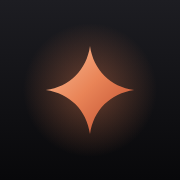
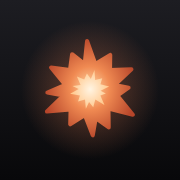
Boom 4.4: l'app si chiama Boom, con lo scoppio come icona (#8)
- Nome: titolo, schermata Home (manifest e iPhone), benvenuto, Impostazioni,
  avvisi di sistema, notifiche, calendario esportato. Regia resta il nome
  della chat principale; repo, indirizzo e id del manifest non cambiano
  (cambiare l'id farebbe un'app nuova da reinstallare).
- Icona: uno scoppio da fumetto nei colori dell'app (test/icone.js, e
  #i-boom nello sprite per il logo del benvenuto).
- Collaudo: il nome e il logo; «oggi: N turni» conta i turni di oggi
  davvero (dopo mezzanotte quelli di un'ora fa sono di ieri).

Claude-Session: https://claude.ai/code/session_01GuofdUgD61BMWYKqHFDryZ

Changed region(s): [[0.25, 0.1944, 0.75, 0.7778]]

diff --git a/index.html b/index.html
@@ -3,7 +3,7 @@
 <head>
 <meta charset="utf-8">
 <meta name="viewport" content="width=device-width,initial-scale=1,viewport-fit=cover,interactive-widget=resizes-content">
-<title>Regia</title>
+<title>Boom</title>
 <link rel="manifest" href="manifest.json">
 <link rel="icon" href="icon-192.png">
 <link rel="apple-touch-icon" href="apple-touch-icon.png">
@@ -11,11 +11,11 @@
 <meta name="theme-color" content="#09090b" media="(prefers-color-scheme: dark)">
 <meta name="apple-mobile-web-app-capable" content="yes">
 <meta name="mobile-web-app-capable" content="yes">
-<meta name="apple-mobile-web-app-title" content="Regia">
+<meta name="apple-mobile-web-app-title" content="Boom">
 <meta name="apple-mobile-web-app-status-bar-style" content="black-translucent">
 <style>
 /* ==========================================================
-   Regia — foglio di stile. Nessuna dipendenza esterna:
+   Boom — foglio di stile. Nessuna dipendenza esterna:
    solo variabili CSS e i font di sistema.
    L'aspetto è quello dell'app di Claude, ma più asciutto: si
    apre sulla chat, in alto una riga sola: il menu (o, nelle altre
@@ -867,6 +867,8 @@ textarea.f{resize:vertical;min-height:84px;line-height:1.5}
     <linearGradient id="gSpark" x1="0" y1="0" x2="1" y2="1">
       <stop offset="0" stop-color="#f7b48b"/><stop offset=".5" stop-color="#e47c50"/><stop offset="1" stop-color="#b6452a"/>
     </linearGradient>
+    <!-- lo scoppio di «Boom», il logo dell'app (lo stesso delle icone: test/icone.js) -->
+    <symbol id="i-boom" viewBox="0 0 24 24"><path d="M11.35 1.12L13.18 6.22L16.50 4.21L16.45 7.55L21.21 7.39L17.49 10.88L20.58 11.48L18.07 13.24L21.53 17.50L16.10 16.10L16.16 20.32L13.28 18.27L12.61 22.08L10.86 17.58L7.60 19.62L7.69 16.31L2.43 16.78L6.12 13.20L2.52 12.57L6.51 10.88L3.34 7.00L7.55 7.55L8.02 4.04L10.82 6.22Z"/></symbol>
     <symbol id="i-cal" viewBox="0 0 24 24"><rect x="3.5" y="5" width="17" height="15.5" rx="3"/><path d="M3.5 10h17M8 3v4M16 3v4"/></symbol>
     <symbol id="i-refresh" viewBox="0 0 24 24"><path d="M20 12a8 8 0 1 1-2.6-5.9"/><path d="M20 4v5h-5"/></symbol>
     <symbol id="i-sliders" viewBox="0 0 24 24"><path d="M4 7h9M17 7h3M4 17h3M11 17h9"/><circle cx="15" cy="7" r="2.2"/><circle cx="9" cy="17" r="2.2"/></symbol>
@@ -995,8 +997,8 @@ textarea.f{resize:vertical;min-height:84px;line-height:1.5}
 <!-- il primo avvio: il codice di accesso, e basta -->
 <div id="benvenuto" class="hide">
   <div class="in">
-    <svg class="logo" aria-hidden="true"><use href="#i-spark"/></svg>
-    <h1>Benvenuto in Regia</h1>
+    <svg class="logo" aria-hidden="true"><use href="#i-boom"/></svg>
+    <h1>Benvenuto in Boom</h1>
     <p>Il tuo Claude, con l'agenda e gli agenti che lavorano per te. Per cominciare, incolla il codice di accesso.</p>
     <input class="f" id="bTok" type="password" placeholder="Codice di accesso" autocapitalize="off" autocorrect="off" autocomplete="off">
     <div class="btnrow"><button class="btn primary" id="bEntra">Entra</button></div>
@@ -1022,8 +1024,8 @@ textarea.f{resize:vertical;min-height:84px;line-height:1.5}
 'use strict';
 
 /* ============================================================
-   Regia — l'app di Claude, ma fatta per Andrea. Si apre su Regia,
-   la chat principale, che risponde subito e smista il lavoro lungo
+   Boom — l'app di Claude, ma fatta per Andrea (il codice è nel repo
+   «regia», il nome di prima). Si apre su Regia, la chat principale, che risponde subito e smista il lavoro lungo
    agli agenti (chat temporanee) o alle chat fisse.
    I dati stanno nel repo privato (regia-dati): ogni messaggio è un
    file, ogni modifica un commit. Sul repo gira un workflow che fa
@@ -1031,7 +1033,7 @@ textarea.f{resize:vertical;min-height:84px;line-height:1.5}
    e mostra (e il telefono riceve le notifiche).
    ============================================================ */
 
-var VERSIONE = '4.3';
+var VERSIONE = '4.4';
 var DEFAULTS = { owner:'andrisis2', repo:'regia-dati', branch:'main', token:'' };
 var WORKFLOW = 'claude.yml';
 var AGENDA = 'agenda/agenda.json';
@@ -3406,7 +3408,7 @@ var SUGGERIMENTI = {
   posta: ['Cosa c\'è di importante?', 'A quali mail devo rispondere?', 'Preparami la bozza di risposta a '],
   lavoro: ['Cerca offerte nuove per me', 'A che punto sono le candidature?', 'Preparami al colloquio con '],
   fede: ['Il Vangelo di oggi, spiegato semplice', 'Una preghiera per stasera', 'Da dove posso ricominciare?'],
-  app: ['A che punto sono le mie app?', 'Nell\'app Regia vorrei ', 'C\'è un problema in '],
+  app: ['A che punto sono le mie app?', 'Nell\'app Boom vorrei ', 'C\'è un problema in '],
   _: ['A che punto siamo?', 'Qual è il prossimo passo?', 'Riassumimi la memoria']
 };
 
@@ -3597,7 +3599,7 @@ function disegnaChat(scrollaGiu){
     if(st.tipo === 'lavoro' || st.tipo === 'coda' || st.tipo === 'attesa') box.appendChild(pensiero(st));
     if(st.tipo === 'runFallito'){
       var f = document.createElement('div'); f.className = 'msg sistema';
-      f.innerHTML = '<div class="bubble"><div class="who"><span class="mark"><svg class="i"><use href="#i-alert"/></svg></span>Regia</div>' +
+      f.innerHTML = '<div class="bubble"><div class="who"><span class="mark"><svg class="i"><use href="#i-alert"/></svg></span>Boom</div>' +
         'Il turno di Claude si è interrotto prima di rispondere.</div>' +
         '<div class="meta" style="justify-content:flex-start"><button class="_rip">Riprova</button></div>';
       box.appendChild(f);
@@ -3672,7 +3674,7 @@ function bolla(c, autore, testo, quando, o){
   if(autore === 'claude' && (mattino || rout || prom || fine)){
     who = '<div class="who"><span class="mark"><svg class="i"><use href="#i-' + (mattino ? 'sun' : prom ? 'clock' : fine ? 'check' : 'repeat') + '"/></svg></span>' +
       (mattino ? 'Il piano di oggi' : prom ? 'Promemoria' : fine ? 'Lavoro finito' : 'Routine' + (nomeR ? ' · ' + escapeHtml(nomeR) : '')) + '</div>';
-  } else if(autore === 'sistema') who = '<div class="who"><span class="mark"><svg class="i"><use href="#i-alert"/></svg></span>Regia</div>';
+  } else if(autore === 'sistema') who = '<div class="who"><span class="mark"><svg class="i"><use href="#i-alert"/></svg></span>Boom</div>';
   // il compito affidato da Regia: come un messaggio inoltrato
   if(autore === 'andrea' && campi.da === PRINCIPALE) who = '<div class="inoltro"><svg class="i"><use href="#i-spark"/></svg>Affidato da Regia</div>';
   var rifai = autore === 'andrea' && NOME_MSG.test(String(campi.rifai || ''));
@@ -4576,7 +4578,7 @@ function esportaIcs(){
   function esc(s){ return String(s).replace(/\\/g, '\\\\').replace(/\n/g, '\\n').replace(/([,;])/g, '\\$1'); }
   function piega(l){ var out = []; while(l.length > 74){ out.push(l.slice(0, 74)); l = ' ' + l.slice(74); } out.push(l); return out.join('\r\n'); }
   var tz = fuso(), stamp = new Date().toISOString().replace(/[-:]/g, '').replace(/\.\d+/, '');
-  var r = ['BEGIN:VCALENDAR', 'VERSION:2.0', 'PRODID:-//Regia//Agenda//IT', 'CALSCALE:GREGORIAN', 'X-WR-CALNAME:Regia'];
+  var r = ['BEGIN:VCALENDAR', 'VERSION:2.0', 'PRODID:-//Boom//Agenda//IT', 'CALSCALE:GREGORIAN', 'X-WR-CALNAME:Boom'];
   if(tz === 'Europe/Rome'){
     r.push('BEGIN:VTIMEZONE', 'TZID:Europe/Rome',
       'BEGIN:DAYLIGHT', 'TZOFFSETFROM:+0100', 'TZOFFSETTO:+0200', 'TZNAME:CEST', 'DTSTART:19700329T020000', 'RRULE:FREQ=YEARLY;BYMONTH=3;BYDAY=-1SU', 'END:DAYLIGHT',
@@ -4779,7 +4781,7 @@ function apriImpostazioni(){
   var notiQui = !!(mio && iscrizioni && (iscrizioni.iscrizioni || []).some(function(x){ return x && x.endpoint === mio.endpoint; }));
   var fisse = chatFisse();
   pg.body.innerHTML =
-    '<div class="profilo"><span class="av">' + escapeHtml((pref.nome || 'A').charAt(0).toUpperCase()) + '</span><div class="ri" style="flex:1;min-width:0"><b id="_nm"></b><small>Regia ' + VERSIONE + ' · il tuo Claude</small></div>' +
+    '<div class="profilo"><span class="av">' + escapeHtml((pref.nome || 'A').charAt(0).toUpperCase()) + '</span><div class="ri" style="flex:1;min-width:0"><b id="_nm"></b><small>Boom ' + VERSIONE + ' · il tuo Claude</small></div>' +
       '<button class="pill" id="_nome">Cambia</button></div>' +
     '<div class="sec-h">Claude</div><div class="menu">' +
       '<button id="_mr"><svg class="i"><use href="#i-spark"/></svg><span class="ri">Modello di Regia<small class="sotto">La chat principale: veloce</small></span><small>' + escapeHtml(descriviScelta(sceltaDiPartenza(PRINCIPALE), true)) + '</small></button>' +
@@ -4803,7 +4805,7 @@ function apriImpostazioni(){
     '<div class="sec-h">Connettori</div><div class="menu">' +
       '<button id="_c_posta"><svg class="i"><use href="#i-mail"/></svg><span class="ri">Gmail<small class="sotto">Nella chat Posta: legge e prepara bozze</small></span><small>come si collega</small></button>' +
       '<button id="_c_cal"><svg class="i"><use href="#i-cal"/></svg><span class="ri">Google Calendar<small class="sotto">I tuoi impegni, in sola lettura</small></span><small>' + (google ? 'collegato' : 'da collegare') + '</small></button>' +
-      '<button id="_c_gh"><svg class="i"><use href="#i-code"/></svg><span class="ri">Le tue app<small class="sotto">Russo, Articoli, Regia: modifiche e pubblicazione</small></span><small>come si collega</small></button>' +
+      '<button id="_c_gh"><svg class="i"><use href="#i-code"/></svg><span class="ri">Le tue app<small class="sotto">Russo, Articoli, Boom: modifiche e pubblicazione</small></span><small>come si collega</small></button>' +
       '<div class="riga"><svg class="i"><use href="#i-globe"/></svg><span class="ri">Ricerca sul web<small class="sotto">Sempre accesa</small></span></div>' +
       '<button id="_c_mcp"><svg class="i"><use href="#i-plug"/></svg><span class="ri">Altri connettori<small class="sotto">Drive e gli altri dell\'app di Claude</small></span></button>' +
     '</div>' +
@@ -4967,7 +4969,7 @@ function salvaIscrizioni(cambia, cosa, tentativo){
 function dispositivo(){ var u = navigator.userAgent; return /iphone/i.test(u) ? 'iPhone' : /ipad/i.test(u) ? 'iPad' : /android/i.test(u) ? 'Android' : 'computer'; }
 function attivaNotifiche(){
   if(!pushPossibile()){ toast(sulIphoneNonInstallata() ? 'Su iPhone le notifiche arrivano all\'app installata: Condividi → Aggiungi alla schermata Home, poi riaprila da lì.' : 'Questo browser non riceve notifiche.', 7000); return Promise.resolve(false); }
-  if(sulIphoneNonInstallata()){ toast('Prima aggiungi Regia alla schermata Home (Condividi → Aggiungi alla schermata Home), poi riaprila da lì.', 7000); return Promise.resolve(false); }
+  if(sulIphoneNonInstallata()){ toast('Prima aggiungi Boom alla schermata Home (Condividi → Aggiungi alla schermata Home), poi riaprila da lì.', 7000); return Promise.resolve(false); }
   var t = null, chiavi;
   return Notification.requestPermission().then(function(p){
     if(p !== 'granted') throw new Error('Senza il permesso del telefono non posso mandarti notifiche (si dà dalle impostazioni del telefono).');
@@ -5028,7 +5030,7 @@ function spiegaConnettore(quale){
   var html = {
     posta: '<h2>Gmail</h2><p class="help">Nella chat <b>Posta</b> Claude legge le tue mail, ti dice cosa conta e prepara le bozze di risposta. Non manda mai niente da solo.</p>' +
       '<ol class="passi"><li>Accendi la verifica in due passaggi: <a href="https://myaccount.google.com/signinoptions/twosv" target="_blank" rel="noopener">myaccount.google.com</a></li>' +
-      '<li>Crea una <b>password per le app</b> (nome «Regia»): <a href="https://myaccount.google.com/apppasswords" target="_blank" rel="noopener">password per le app</a></li>' +
+      '<li>Crea una <b>password per le app</b> (nome «Boom»): <a href="https://myaccount.google.com/apppasswords" target="_blank" rel="noopener">password per le app</a></li>' +
       '<li>Salvale tra i ' + segreti + ': <code>POSTA_UTENTE</code> = il tuo indirizzo Gmail, <code>POSTA_PASSWORD</code> = le 16 lettere.</li></ol>' +
       '<p class="help">La posta lavora a parte, senza web: una mail scritta per ingannare Claude non può fargli mandare niente.</p>',
     repo: '<h2>Le tue app</h2><p class="help">Così le chat <b>Russo</b>, <b>Articoli</b> e <b>Le mie app</b> (e gli agenti) possono modificare le tue app e pubblicarle.</p>' +
@@ -5036,7 +5038,7 @@ function spiegaConnettore(quale){
       '<li><i>Only select repositories</i>: le tue app (russo, prep, articoli-, regia…)</li>' +
       '<li><i>Permissions</i>: <b>Contents</b> e <b>Pull requests</b>, Read and write</li>' +
       '<li>Salvalo tra i ' + segreti + ' come <code>REGIA_GH_TOKEN</code>.</li></ol>',
-    mcp: '<h2>Altri connettori</h2><p class="help">I connettori dell\'app di Claude (Drive, Gmail, Calendar…) non arrivano qui: Claude lavora per Regia con una chiave che vale solo per parlare con lui. Per questo Regia ha i suoi: <b>Gmail</b> (nella Posta), <b>Google Calendar</b>, <b>le tue app</b> e la <b>ricerca sul web</b>.</p>' +
+    mcp: '<h2>Altri connettori</h2><p class="help">I connettori dell\'app di Claude (Drive, Gmail, Calendar…) non arrivano qui: Claude lavora per Boom con una chiave che vale solo per parlare con lui. Per questo Boom ha i suoi: <b>Gmail</b> (nella Posta), <b>Google Calendar</b>, <b>le tue app</b> e la <b>ricerca sul web</b>.</p>' +
       '<p class="help">Altri servizi si collegano come server MCP, nel file <code>.regia/connettori.json</code> dei tuoi dati (lo può preparare Claude dalla chat Le mie app); una chiave va nel segreto <code>CONNETTORI_TOKEN</code>.</p>'
   }[quale];
   var s = sheet(html + '<div class="btnrow"><button class="btn primary" id="_ok">Ok</button></div>');
@@ -5052,7 +5054,7 @@ function statoGoogle(){
       (dataDa(google.aggiornato) ? ', aggiornati ' + escapeHtml(quandoMsg(dataDa(google.aggiornato))) : '') + '. Si aggiornano a ogni turno di Claude.</p>' +
       '<p class="help">Li vedi nel calendario col segno <span class="tag google">Google</span>, e Claude ne tiene conto quando organizza, nel briefing e nei promemoria. ' +
       'Si cambiano da Google Calendar; quelli di Regia li puoi copiare là dalla scheda di ogni impegno.</p>' :
-      '<p class="help">Così vedi qui (e Claude conosce) gli impegni del tuo Google Calendar. In sola lettura: Regia non scrive nel tuo calendario.</p>' +
+      '<p class="help">Così vedi qui (e Claude conosce) gli impegni del tuo Google Calendar. In sola lettura: Boom non scrive nel tuo calendario.</p>' +
       '<ol class="passi"><li>Su <a href="https://calendar.google.com/calendar/r/settings" target="_blank" rel="noopener">calendar.google.com</a> dal computer: ' +
       'Impostazioni → il tuo calendario → <i>Integra calendario</i> → copia l\'<b>indirizzo segreto in formato iCal</b>.</li>' +
       '<li>Incollalo come segreto <code>CALENDARIO_ICS</code> qui: <a href="' + repoUrl + '/settings/secrets/actions/new" target="_blank" rel="noopener">segreti dei tuoi dati</a> ' +

diff --git a/test/icone.js b/test/icone.js
@@ -1,13 +1,17 @@
-// Disegna le icone dell'app da un SVG solo (la scintilla calda su fondo quasi nero).
+// Disegna le icone dell'app da un SVG solo: lo scoppio di «Boom», caldo, su fondo quasi nero.
 // uso: node test/icone.js   — riscrive icon.png, icon-192.png, icon-maskable.png, apple-touch-icon.png
 let chromium;
 try { ({ chromium } = require('playwright')); } catch (e) { ({ chromium } = require('/opt/node22/lib/node_modules/playwright')); }
 const path = require('path');
 const APP = path.join(__dirname, '..');
 
+// lo scoppio, in un quadrato di 24 come le icone dell'app (è anche #i-boom in index.html):
+// punte di lunghezze diverse, come nei fumetti; dentro, un nucleo più chiaro
+const SCOPPIO = 'M11.35 1.12L13.18 6.22L16.50 4.21L16.45 7.55L21.21 7.39L17.49 10.88L20.58 11.48L18.07 13.24L21.53 17.50L16.10 16.10L16.16 20.32L13.28 18.27L12.61 22.08L10.86 17.58L7.60 19.62L7.69 16.31L2.43 16.78L6.12 13.20L2.52 12.57L6.51 10.88L3.34 7.00L7.55 7.55L8.02 4.04L10.82 6.22Z';
+
 // tondo: angoli trasparenti (icone «any»); pieno: tutto il quadrato colorato
 // (maskable e iPhone, che gli angoli li taglia da sé); scala: quanto è grande
-// la scintilla (nella maskable deve stare dentro la zona sicura, l'80% centrale)
+// lo scoppio (nella maskable deve stare dentro la zona sicura, l'80% centrale)
 function svg(lato, { tondo, scala }) {
   const r = tondo ? lato * 0.225 : 0, s = lato * scala, o = (lato - s) / 2;
   return `<svg xmlns="http://www.w3.org/2000/svg" width="${lato}" height="${lato}" viewBox="0 0 ${lato} ${lato}">
@@ -16,16 +20,20 @@ function svg(lato, { tondo, scala }) {
       <stop offset="0" stop-color="#1d1d22"/><stop offset="1" stop-color="#08080a"/>
     </linearGradient>
     <radialGradient id="alone" cx="0.5" cy="0.5" r="0.5">
-      <stop offset="0" stop-color="#e47c50" stop-opacity=".42"/><stop offset="1" stop-color="#e47c50" stop-opacity="0"/>
+      <stop offset="0" stop-color="#e47c50" stop-opacity=".45"/><stop offset="1" stop-color="#e47c50" stop-opacity="0"/>
     </radialGradient>
-    <linearGradient id="spark" x1="0" y1="0" x2="1" y2="1">
-      <stop offset="0" stop-color="#f9c09a"/><stop offset=".48" stop-color="#e98457"/><stop offset="1" stop-color="#b9472b"/>
-    </linearGradient>
+    <radialGradient id="fuoco" cx="0.5" cy="0.5" r="0.55">
+      <stop offset="0" stop-color="#ffd9a8"/><stop offset=".42" stop-color="#f08a52"/><stop offset="1" stop-color="#b6452a"/>
+    </radialGradient>
+    <radialGradient id="nucleo" cx="0.5" cy="0.5" r="0.5">
+      <stop offset="0" stop-color="#fff4e2"/><stop offset="1" stop-color="#ffc98f"/>
+    </radialGradient>
   </defs>
   <rect width="${lato}" height="${lato}" rx="${r}" fill="url(#fondo)"/>
-  <circle cx="${lato / 2}" cy="${lato / 2}" r="${s * 0.62}" fill="url(#alone)"/>
+  <circle cx="${lato / 2}" cy="${lato / 2}" r="${s * 0.64}" fill="url(#alone)"/>
   <g transform="translate(${o} ${o}) scale(${s / 24})">
-    <path d="M12 2.2c.75 5.3 4.5 9.05 9.8 9.8-5.3.75-9.05 4.5-9.8 9.8-.75-5.3-4.5-9.05-9.8-9.8 5.3-.75 9.05-4.5 9.8-9.8z" fill="url(#spark)"/>
+    <path d="${SCOPPIO}" fill="url(#fuoco)" stroke="url(#fuoco)" stroke-width=".9" stroke-linejoin="round"/>
+    <path d="${SCOPPIO}" fill="url(#nucleo)" transform="translate(12 12) rotate(16) scale(.42) translate(-12 -12)"/>
   </g>
 </svg>`;
 }

diff --git a/test/prova.js b/test/prova.js
@@ -133,6 +133,7 @@ async function aspettaFile(repo, p, cond, ms = 10000) {
   await page.goto('https://regia.test/');
   await page.waitForSelector('#benvenuto:not(.hide)');
   verifica(!/github|repo|token/i.test(await page.innerText('#benvenuto')) && (await page.isHidden('#benvenuto details ol')), 'niente parole di GitHub davanti (le istruzioni sono chiuse)');
+  verifica(await page.title() === 'Boom' && (await page.textContent('#benvenuto h1')) === 'Benvenuto in Boom' && !!(await page.$('#benvenuto svg.logo use[href="#i-boom"]')), 'l\'app si chiama Boom, col suo scoppio');
   await shot(page, 'benvenuto');
   await page.fill('#bTok', 'tok-finto');
   await page.click('#bEntra');
@@ -515,7 +516,9 @@ async function aspettaFile(repo, p, cond, ms = 10000) {
   await page.waitForSelector('.sheet .misura');
   verifica((await page.$$('.sheet .misura')).length === 2 && (await page.$$('.sheet .misura.attenzione')).length === 1, 'due limiti, la settimana in arancione');
   verifica((await page.textContent('.sheet .misura.attenzione .pct')) === '24%resta', 'anche qui quanto resta');
-  verifica((await page.textContent('#_tiles .tile:first-child .tv')) === '3', 'oggi: 3 turni');
+  // i turni di oggi (ora di Roma): dopo mezzanotte quelli di un'ora o due fa sono di ieri
+  const diOggi = turni.filter(t => oggiRoma(-(Date.now() - Date.parse(t.quando)) / 864e5) === oggiRoma()).length;
+  verifica((await page.textContent('#_tiles .tile:first-child .tv')) === String(diOggi), 'oggi: ' + diOggi + ' turni');
   await shot(page, 'uso');
   await page.goBack(); await sleep(300);
   verifica((repo.nonCambiati || 0) > 0, 'mentre aspetta Claude, GitHub risponde «niente di nuovo» (304, con l\'ETag): si guarda spesso senza consumare');

diff --git a/sw.js b/sw.js
@@ -1,7 +1,7 @@
 // Service worker: tiene offline il guscio dell'app e riceve le notifiche.
 // Chat e calendario arrivano dall'API di GitHub e NON passano di qui: l'app tiene
 // la sua copia (IndexedDB e localStorage) e la mostra quando manca la rete.
-const CACHE = 'regia-v8';
+const CACHE = 'regia-v9';
 const ASSETS = ['./', './index.html', './manifest.json', './icon.png', './icon-192.png', './icon-maskable.png', './apple-touch-icon.png'];
 
 self.addEventListener('install', e => {
@@ -43,7 +43,7 @@ self.addEventListener('push', e => {
   let d = {};
   try { d = e.data ? e.data.json() : {}; } catch (x) { d = { testo: e.data ? e.data.text() : '' }; }
   const chat = /^[a-z0-9][a-z0-9-]*$/.test(d.chat || '') ? d.chat : '';
-  e.waitUntil(self.registration.showNotification(String(d.titolo || 'Regia').slice(0, 80), {
+  e.waitUntil(self.registration.showNotification(String(d.titolo || 'Boom').slice(0, 80), {
     body: String(d.testo || 'Claude ti ha scritto').slice(0, 240),
     tag: String(d.tag || chat || 'regia').slice(0, 60), renotify: true,
     icon: 'icon-192.png', badge: 'icon-192.png', data: { chat }

diff --git a/CLAUDE.md b/CLAUDE.md
@@ -1,6 +1,7 @@
 # regia — istruzioni per Claude
 
-Codice dell'app **Regia** (PWA): l'assistente personale di Andrea, «come l'app di
+Codice dell'app **Boom** (PWA; prima si chiamava Regia, e il repo ha ancora quel
+nome): l'assistente personale di Andrea, «come l'app di
 Claude, ma migliorata». Si apre su **Regia**, la chat principale, che risponde alle
 cose veloci e smista il lavoro lungo agli **agenti** (chat temporanee) o alle **chat
 fisse** (Russo, Articoli…); poi il canale delle **News** (👍/👎), il calendario, gli
@@ -51,7 +52,8 @@ il workflow che fa rispondere Claude (un turno per chat, in parallelo).
   chat, routine, lettore di file, calendario (il mese e il giorno scelto, in sola
   lettura: elimina e «fatto»),
   impostazioni (con «Avanzate»), notifiche (Web Push), connettori, avvio.
-- `test/icone.js` — rifà le icone da un SVG.
+- `test/icone.js` — rifà le icone da un SVG (lo scoppio di «Boom», lo stesso di
+  `#i-boom` nello sprite: se cambi l'uno, cambia l'altro).
 - `sw.js` — guscio offline e notifiche (push, tocco sulla notifica → la chat
   giusta). **Se cambi file del guscio, alza `CACHE`.**
 - `test/` — collaudo end-to-end con GitHub finto.

diff --git a/README.md b/README.md
@@ -1,4 +1,7 @@
-# Regia — l'app
+# Boom — l'app
+
+(Prima si chiamava Regia: il repo e l'indirizzo hanno ancora quel nome, e Regia
+resta il nome della chat principale.)
 
 PWA per avere Claude sempre a portata di mano, «come l'app di Claude, ma
 migliorata e fatta su misura»: si apre su **Regia**, la chat principale, che
